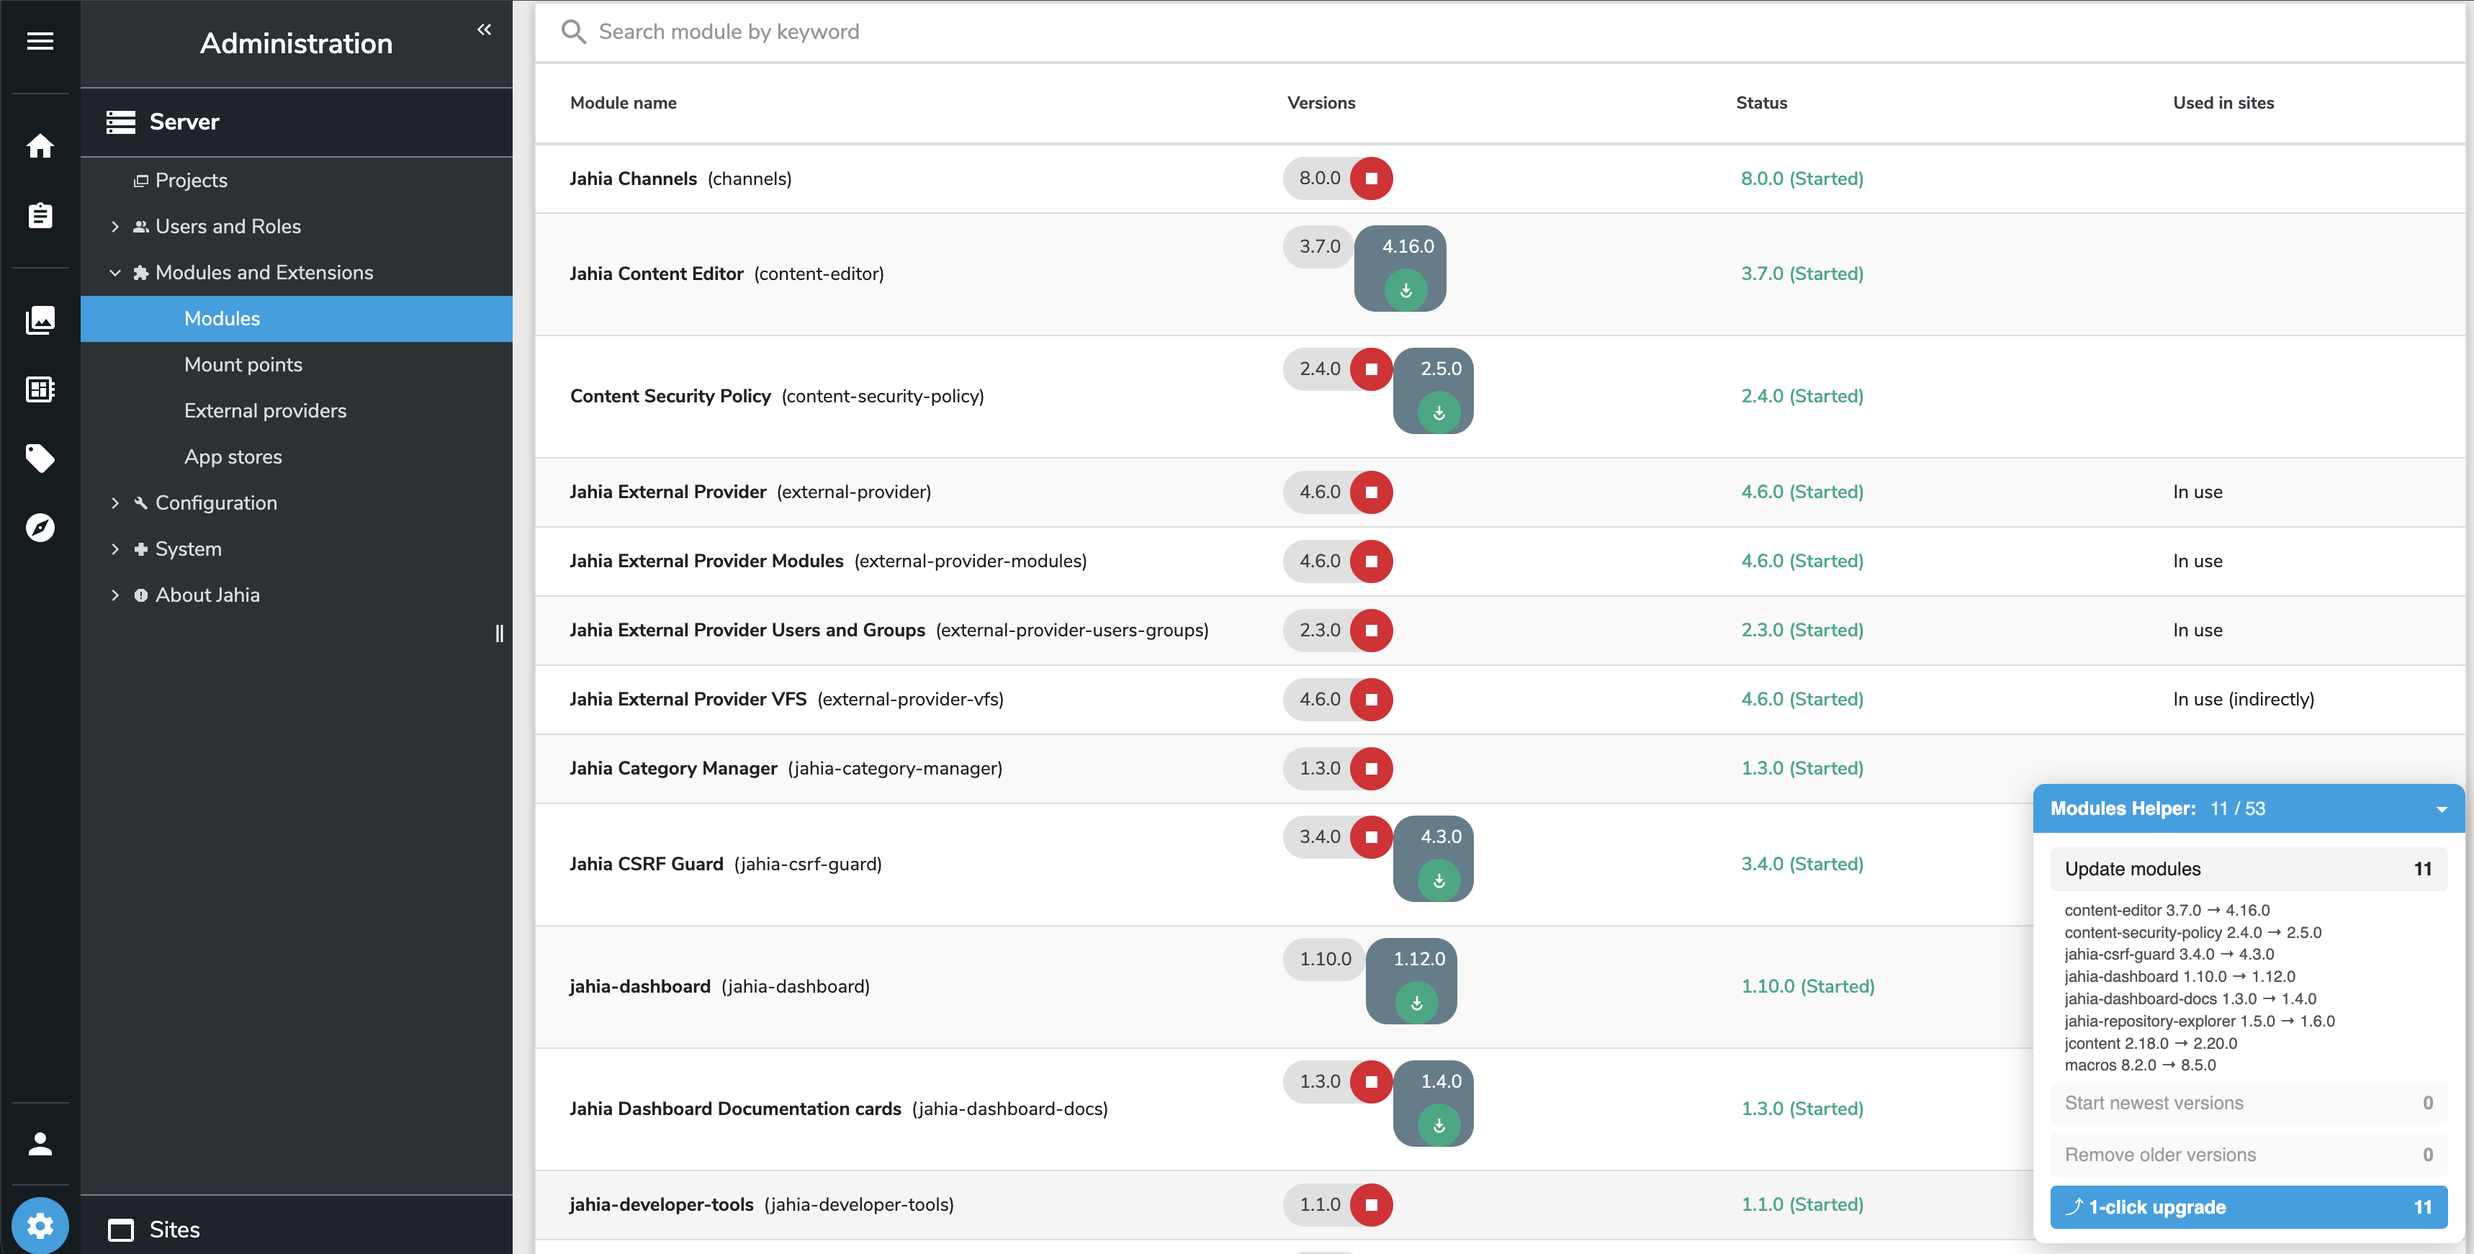
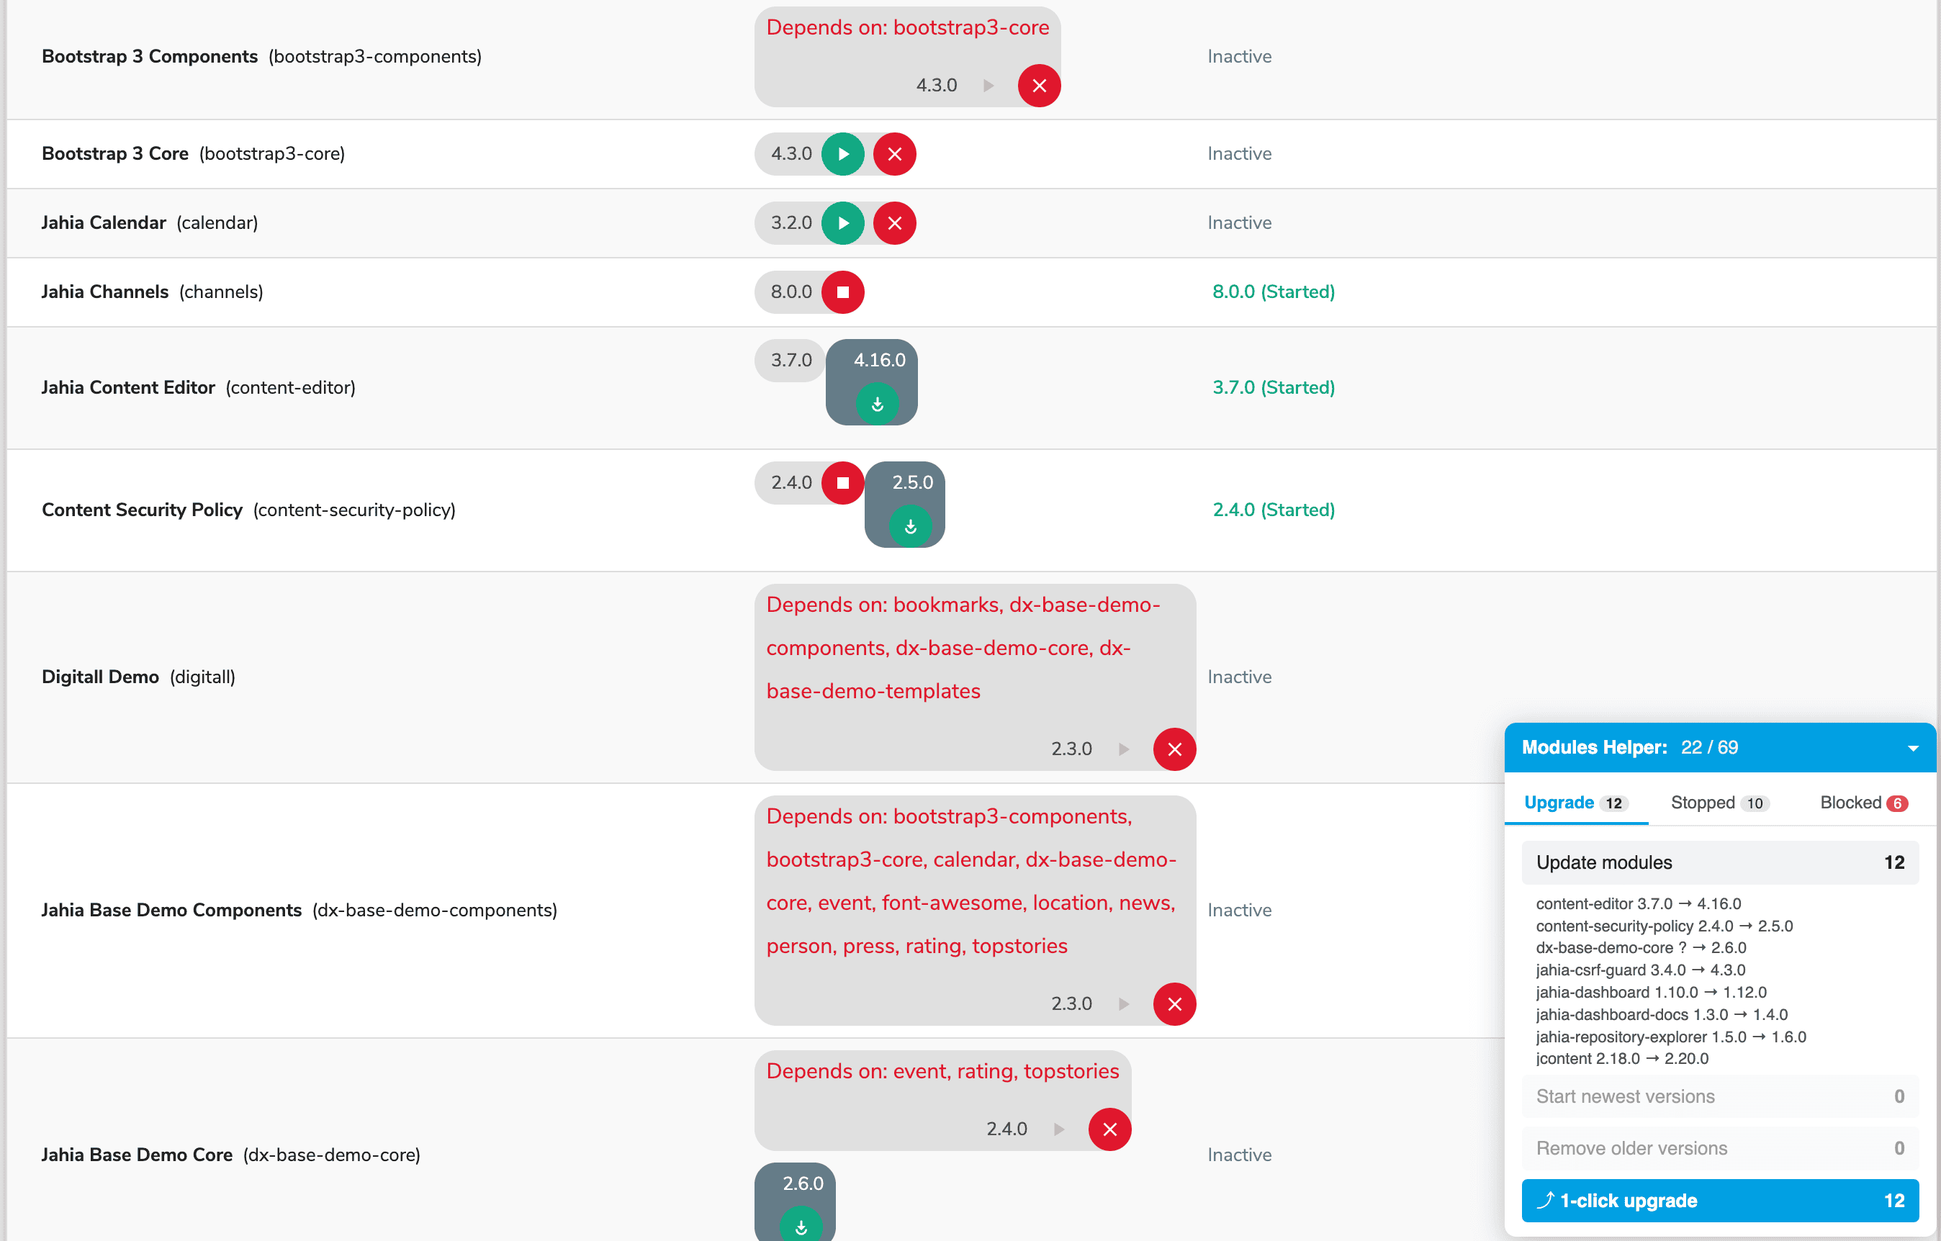
feat: handle stopped and blocked modules

diff --git a/jahia-modules-helper/js/content.js b/jahia-modules-helper/js/content.js
@@ -46,6 +46,8 @@
     if (!orphaned) {
       orphaned = true;
       document.removeEventListener('click', onClick, true);
+      document.removeEventListener('mouseover', onHover);
+      document.removeEventListener('mouseout', onHover);
       const panel = document.getElementById('jmh-panel');
       if (panel) panel.remove();
       // Sticky notice (not a toast) so it isn't missed; this script can no longer do anything else.
@@ -182,10 +184,26 @@
   }
 
   /**
+   * Read the dependencies that keep an inactive version from starting. Jahia then renders the
+   * start button disabled (and without its event name), with the missing ids in its tooltip.
+   * @param {Element} chip Inactive version chip.
+   * @returns {string[]|null} Missing module ids, or null when the version can be started.
+   */
+  function missingDeps(chip) {
+    const btn = [...chip.querySelectorAll('button[disabled]')].find((b) => b.querySelector('.startModule'));
+    const note = chip.querySelector('p.text-danger');
+    if (!btn && !note) return null;
+    const m = ((btn && btn.getAttribute('title')) || '').match(/dependencies \(([^)]*)\)/)
+      || txt(note).match(/Depends on:\s*(.*)$/);
+    return m ? m[1].split(',').map((s) => s.trim()).filter(Boolean) : [];
+  }
+
+  /**
    * Parse the visible table rows into modules and their version chips
    * (active / inactive / available update). Rows without version chips are skipped.
    * @returns {Object[]} `{name, id, active, inactive, updates}`; each chip is `{ver}` plus its
-   *   start / undeploy / install button where the page has one.
+   *   start / undeploy / install button where the page has one; inactive chips also carry
+   *   `missing` (see {@link missingDeps}).
    */
   function readModules() {
     const rows = [...document.querySelectorAll('table.dataTable tbody tr')];
@@ -207,6 +225,7 @@
             ver,
             startBtn: c.querySelector('button[name=_eventId_startModule]'),
             undeployBtn: c.querySelector('button[name=_eventId_undeployModule]'),
+            missing: missingDeps(c),
           });
         } else if (c.classList.contains('updateNotif')) {
           const btn = c.querySelector('button[name=_eventId_installModuleOnly]');
@@ -229,18 +248,31 @@
    * - updates: every available update chip;
    * - starts: the newest inactive version, if newer than the running one;
    * - removals: inactive versions older than the running one.
-   * Modules with no running version get no start/remove actions.
+   * - inactiveStarts: modules with no running version -> their newest startable version;
+   * - blocked: modules whose newest candidate version (newer than the running one, if any)
+   *   cannot start because of missing dependencies. Informational, no action.
    * Each action is `{type, module, label, ver, from|active, btn}`, where `btn` is the page button
-   * that performs it.
-   * @returns {{updates: Object[], starts: Object[], removals: Object[], total: number}}
+   * that performs it. Blocked entries are `{module, label, ver, missing: [{id, installed}]}`.
+   * @returns {{updates: Object[], starts: Object[], removals: Object[], inactiveStarts: Object[], blocked: Object[], total: number}}
    */
   function plan() {
     const mods = readModules();
-    const updates = [], starts = [], removals = [];
+    const ids = new Set(mods.map((m) => m.id));
+    const updates = [], starts = [], removals = [], inactiveStarts = [], blocked = [];
     for (const m of mods) {
       const active = maxVer(m.active);
       for (const u of m.updates) {
         updates.push({ type: 'update', module: m.id, label: m.name, ver: u.ver, from: active && active.ver, btn: u.btn });
+      }
+      const newestAny = maxVer(m.inactive.filter((i) => !active || cmpVersion(i.ver, active.ver) > 0));
+      if (newestAny && newestAny.missing) {
+        blocked.push({ module: m.id, label: m.name, ver: newestAny.ver,
+          missing: newestAny.missing.map((id) => ({ id, installed: ids.has(id) })) });
+      }
+      // Stopped module (nothing running) with a version that can start -> start the newest.
+      if (!active) {
+        const newest = maxVer(m.inactive.filter((i) => i.startBtn));
+        if (newest) inactiveStarts.push({ type: 'startInactive', module: m.id, label: m.name, ver: newest.ver, btn: newest.startBtn });
       }
       // Several versions installed and a newer one is not running -> start the newest.
       if (active) {
@@ -256,7 +288,7 @@
         }
       }
     }
-    return { updates, starts, removals, total: mods.length };
+    return { updates, starts, removals, inactiveStarts, blocked, total: mods.length };
   }
 
   /**
@@ -271,6 +303,7 @@
   const describe = (a) =>
     a.type === 'update' ? `Update ${a.module} ${a.from || '?'} → ${a.ver}`
     : a.type === 'start' ? `Start ${a.module} ${a.ver} (was ${a.from})`
+    : a.type === 'startInactive' ? `Start ${a.module} ${a.ver} (stopped)`
     : `Remove ${a.module} ${a.ver} (running ${a.active})`;
 
   /** Run mode → ordered list of {@link plan} phases to execute. */
@@ -279,6 +312,7 @@
     update: ['updates'],
     start: ['starts'],
     remove: ['removals'],
+    startInactive: ['inactiveStarts'],
   };
 
   /**
@@ -333,6 +367,9 @@
     let msg = (mode === 'all' ? 'Upgrade: ' : '') +
       `${actions.length} action(s) planned now:\n\n` + actions.map(describe).join('\n');
     if (mode === 'all') msg += '\n\nNew versions will then be started and old versions removed.';
+    if (mode === 'startInactive' && p.blocked.length) {
+      msg += '\n\nBlocked modules whose dependencies get started this way will be started too.';
+    }
     msg += '\n\nThe page will reload after each action. Continue?';
     if (!confirm(msg)) return;
     const run = { mode, attempted: {}, log: [], steps: 0, startedAt: Date.now(), lastStepAt: Date.now(), current: null };
@@ -405,6 +442,17 @@
   #jmh-panel .jmh-list{max-height:120px;overflow:auto;font-size:11px;color:#555;padding:0 10px 2px}
   #jmh-panel .jmh-list div{white-space:nowrap;overflow:hidden;text-overflow:ellipsis}
   #jmh-panel .jmh-count{font-weight:400;opacity:.85;margin-left:6px}
+  #jmh-panel .jmh-tabs{display:flex;border-bottom:1px solid #e2e6ea;margin:-2px -12px 4px}
+  #jmh-panel button.jmh-tab{all:unset;flex:1;text-align:center;padding:5px 2px;font-size:12px;cursor:pointer;color:#555;border-bottom:2px solid transparent}
+  #jmh-panel button.jmh-tab:hover{background:#f1f3f5}
+  #jmh-panel button.jmh-tab.jmh-on{color:#00a0e3;border-bottom-color:#00a0e3;font-weight:600}
+  #jmh-panel .jmh-tab .jmh-tn{font-size:10px;margin-left:3px;padding:0 5px;border-radius:8px;background:#e2e6ea;color:#333}
+  #jmh-panel .jmh-tab .jmh-tn.jmh-warn{background:#d9534f;color:#fff}
+  #jmh-panel .jmh-list .jmh-miss{color:#c0392b}
+  #jmh-panel .jmh-list div[data-mod]{cursor:default;border-radius:3px}
+  #jmh-panel .jmh-list div[data-mod]:hover{background:#fff3cd;color:#222}
+  tr.jmh-hl > td{background:#fff3cd !important;box-shadow:inset 0 2px 0 #f0ad4e,inset 0 -2px 0 #f0ad4e}
+  #jmh-panel .jmh-hint{font-size:11px;color:#777}
   #jmh-toast{position:fixed;right:16px;bottom:16px;z-index:100000;background:#333;color:#fff;padding:8px 12px;border-radius:6px;font:13px sans-serif}
   `;
 
@@ -421,7 +469,10 @@
   }
 
   /** UI preferences, persisted under PREF_KEY. */
-  let prefs = { collapsed: false };
+  let prefs = { collapsed: false, tab: 'upgrade' };
+
+  /** Run mode → panel tab that shows its progress (default: 'upgrade'). */
+  const TAB_OF_MODE = { startInactive: 'inactive' };
 
   /** Inject the panel stylesheet into the page once. */
   function ensureStyle() {
@@ -453,30 +504,62 @@
     const busy = !!run;
     const listBox = (phase) => (p[phase].length ? `<div class="jmh-list" data-list="${phase}"></div>` : '');
     const upMods = new Set([...p.updates, ...p.starts, ...p.removals].map((a) => a.module)).size;
-    // Gray header when there is nothing to update, start or remove.
-    panel.classList.toggle('jmh-idle', !upMods && !busy);
-    panel.innerHTML = `
-      <header><span>Modules Helper: <span class="jmh-count" title="Upgradable out of total modules">${upMods} / ${p.total}</span></span><span>${prefs.collapsed && !run ? '▴' : '▾'}</span></header>
-      <div class="jmh-body">
+    // Modules with something to do on any tab (blocked ones have no action).
+    const actMods = new Set([...p.updates, ...p.starts, ...p.removals, ...p.inactiveStarts].map((a) => a.module)).size;
+    // Gray header when no module is actionable.
+    panel.classList.toggle('jmh-idle', !actMods && !busy);
+    // While a run is active, stay on the tab that shows its progress.
+    const tab = busy ? (TAB_OF_MODE[run.mode] || 'upgrade') : prefs.tab;
+    const tabBtn = (id, label, n, warn) =>
+      `<button class="jmh-tab ${tab === id ? 'jmh-on' : ''}" data-tab="${id}">${label}<span class="jmh-tn ${warn && n ? 'jmh-warn' : ''}">${n}</span></button>`;
+    const stopOr = (primary) => (busy ? '<button class="jmh-b jmh-stop" data-a="stop">Stop after current action</button>' : primary);
+    const tabBody = {
+      upgrade: `
         <button class="jmh-b" data-a="update" ${busy || !p.updates.length ? 'disabled' : ''}>Update modules <span class="jmh-n">${p.updates.length}</span></button>
         ${listBox('updates')}
         <button class="jmh-b" data-a="start" ${busy || !p.starts.length ? 'disabled' : ''}>Start newest versions <span class="jmh-n">${p.starts.length}</span></button>
         ${listBox('starts')}
         <button class="jmh-b" data-a="remove" ${busy || !p.removals.length ? 'disabled' : ''}>Remove older versions <span class="jmh-n">${p.removals.length}</span></button>
         ${listBox('removals')}
-        ${busy
-          ? '<button class="jmh-b jmh-stop" data-a="stop">Stop after current action</button>'
-          : `<button class="jmh-b jmh-primary" data-a="all" title="Update modules, start new versions, remove old versions" ${upMods ? '' : 'disabled'}>⤴ 1-click upgrade <span class="jmh-n">${upMods}</span></button>`}
+        ${stopOr(`<button class="jmh-b jmh-primary" data-a="all" title="Update modules, start new versions, remove old versions" ${upMods ? '' : 'disabled'}>⤴ 1-click upgrade <span class="jmh-n">${upMods}</span></button>`)}`,
+      inactive: `
+        <div class="jmh-hint">Stopped modules (no version running) that can be started.</div>
+        ${listBox('inactiveStarts')}
+        ${stopOr(`<button class="jmh-b jmh-primary" data-a="startInactive" ${p.inactiveStarts.length ? '' : 'disabled'}>▶ Start stopped modules <span class="jmh-n">${p.inactiveStarts.length}</span></button>`)}`,
+      blocked: p.blocked.length
+        ? `<div class="jmh-hint">Can't start: dependencies missing (red = not installed).</div>${listBox('blocked')}`
+        : '<div class="jmh-hint">No modules are blocked by missing dependencies.</div>',
+    };
+    panel.innerHTML = `
+      <header><span>Modules Helper: <span class="jmh-count" title="Actionable (upgrade or start stopped) out of total modules">${actMods} / ${p.total}</span></span><span>${prefs.collapsed && !run ? '▴' : '▾'}</span></header>
+      <div class="jmh-body">
+        <div class="jmh-tabs">
+          ${tabBtn('upgrade', 'Upgrade', upMods)}${tabBtn('inactive', 'Stopped', p.inactiveStarts.length)}${tabBtn('blocked', 'Blocked', p.blocked.length, true)}
+        </div>
+        ${tabBody[tab] || tabBody.upgrade}
         ${status ? `<div class="jmh-status"></div>` : ''}
         ${log && log.length ? `<div class="jmh-log"></div>` : ''}
       </div>`;
     for (const list of panel.querySelectorAll('.jmh-list')) {
       for (const a of p[list.dataset.list]) {
         const d = document.createElement('div');
-        d.textContent = a.type === 'update' ? `${a.module} ${a.from || '?'} → ${a.ver}`
-          : a.type === 'start' ? `${a.module} ${a.ver} (was ${a.from})`
-          : `${a.module} ${a.ver} (running ${a.active})`;
         d.title = a.label;
+        if (list.dataset.list === 'blocked') {
+          d.dataset.mod = a.module; // hover highlights the table row, see onHover
+          d.append(`${a.module} ${a.ver} — needs `);
+          a.missing.forEach((dep, i) => {
+            const s = document.createElement('span');
+            s.textContent = (i ? ', ' : '') + dep.id;
+            if (!dep.installed) s.className = 'jmh-miss';
+            d.appendChild(s);
+          });
+          d.title = `${a.label}\nNeeds: ${a.missing.map((x) => x.id + (x.installed ? ' (installed, stopped)' : ' (not installed)')).join(', ')}`;
+        } else {
+          d.textContent = a.type === 'update' ? `${a.module} ${a.from || '?'} → ${a.ver}`
+            : a.type === 'start' ? `${a.module} ${a.ver} (was ${a.from})`
+            : a.type === 'startInactive' ? `${a.module} ${a.ver}`
+            : `${a.module} ${a.ver} (running ${a.active})`;
+        }
         list.appendChild(d);
       }
     }
@@ -494,7 +577,8 @@
 
   /**
    * Document-level (capture) click handler for the panel: the header toggles collapse,
-   * "stop" flags the active run, and any other `data-a` button starts a run in that mode.
+   * a `data-tab` button switches tab, "stop" flags the active run, and any other `data-a`
+   * button starts a run in that mode.
    * @param {MouseEvent} e
    * @returns {Promise<void>}
    */
@@ -503,6 +587,12 @@
     if (!panel || !panel.contains(e.target)) return;
     if (e.target.closest('header')) {
       prefs.collapsed = !prefs.collapsed;
+      await store.set(PREF_KEY, prefs);
+      return renderPanel(await store.get(STORE_KEY));
+    }
+    const tabEl = e.target.closest('[data-tab]');
+    if (tabEl) {
+      prefs.tab = tabEl.dataset.tab;
       await store.set(PREF_KEY, prefs);
       return renderPanel(await store.get(STORE_KEY));
     }
@@ -518,6 +608,30 @@
     showAllRows(true);
     await sleep(300);
     startRun(a);
+  }
+
+  /** Module id whose table row is currently highlighted, or null. */
+  let hoverMod = null;
+
+  /**
+   * Document-level hover handler: while the pointer is over a panel list entry with `data-mod`,
+   * highlight that module's table row (scrolling it into view if needed); clear it otherwise.
+   * @param {MouseEvent} e mouseover or mouseout.
+   */
+  function onHover(e) {
+    const over = e.type === 'mouseout' ? e.relatedTarget : e.target;
+    const el = over && over.closest ? over.closest('#jmh-panel [data-mod]') : null;
+    const mod = el ? el.dataset.mod : null;
+    if (mod === hoverMod) return;
+    hoverMod = mod;
+    for (const tr of document.querySelectorAll('tr.jmh-hl')) tr.classList.remove('jmh-hl');
+    if (!mod) return;
+    const tr = [...document.querySelectorAll('tr[data-sel-role^="module-row-"]')]
+      .find((r) => r.dataset.selRole === 'module-row-' + mod);
+    if (tr) {
+      tr.classList.add('jmh-hl');
+      tr.scrollIntoView({ block: 'nearest', behavior: 'smooth' });
+    }
   }
 
   // ---------- boot ----------
@@ -539,6 +653,8 @@
     showAllRows(!!run);
     await sleep(500);
     document.addEventListener('click', onClick, true);
+    document.addEventListener('mouseover', onHover);
+    document.addEventListener('mouseout', onHover);
     if (run) {
       renderPanel(run, 'Continuing…', run.log);
       await step(run);

diff --git a/jahia-modules-helper/README.md b/jahia-modules-helper/README.md
@@ -8,5 +8,7 @@ Bulk actions for **Jahia → Administration → Server → Modules and Extension
 - **Start newest versions** – when several versions are installed and a newer one is stopped, starts the newest.
 - **Remove older versions** – undeploys stopped versions older than the running one (never newer ones).
 - **⤴ 1-click upgrade** – update → start new → remove old, for all modules.
-- Panel title shows **upgradable / total** module counters.
+- **Stopped** tab – lists stopped modules (no version running) that can be started, and starts their newest startable version in bulk. Blocked modules whose dependencies get started along the way are started too.
+- **Blocked** tab – lists modules that can't start because of missing dependencies, with the dependencies they need (red = not installed at all).
+- Panel title shows **actionable / total** module counters (actionable = upgrade or start stopped; blocked modules are not counted).
 - Always asks for confirmation (lists planned actions) before running; **Stop** button while running; per-action log with failures.

diff --git a/jahia-modules-helper/CHANGELOG.md b/jahia-modules-helper/CHANGELOG.md
@@ -1,5 +1,14 @@
 # Changelog
 
+## [1.1] - 2026-10-21
+
+### Added
+- **Stopped** tab: lists stopped modules (no version running) that can be started and starts their newest startable version in bulk. Blocked modules whose dependencies get started along the way are started too.
+- **Blocked** tab: lists modules that can't start because of missing dependencies, with the dependencies they need (red = not installed at all). Hovering an entry highlights its row in the modules table.
+
+### Updated
+- Panel title counter now shows **actionable / total** modules (upgrade or start stopped; blocked modules are not counted).
+
 ## [1.0] - 2026-10-21
 
 - Initial release

diff --git a/README.md b/README.md
@@ -20,6 +20,7 @@ Adds a panel for bulk actions to the Jahia **Administration → Modules** page.
 - Always shows all rows in the modules table
 - Updates modules, starts the newest versions, and removes older versions
 - **1-click upgrade** runs update → start new → remove old for every module
+- Starts stopped modules in bulk, and lists modules blocked by missing dependencies
 - Shows the planned actions and asks for confirmation before running, and can be stopped while it runs
 
 ![Jahia Modules Helper panel](screenshots/jahia-modules-helper.png)
